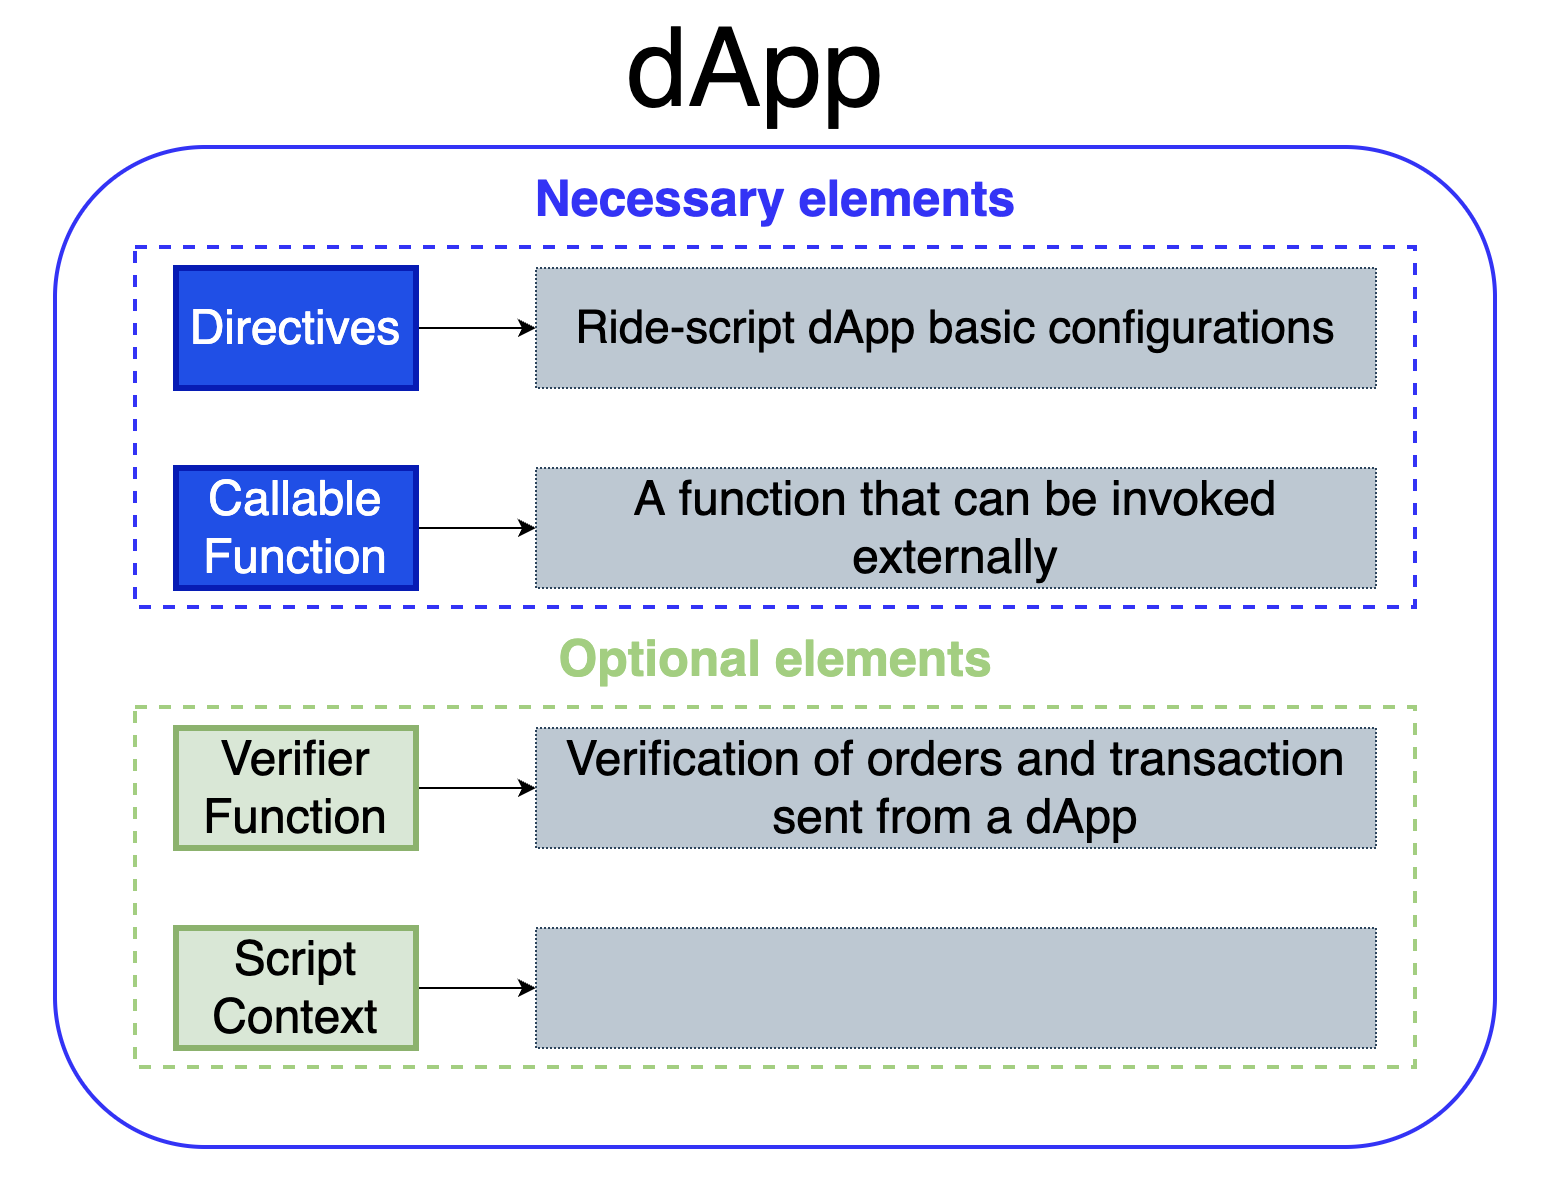
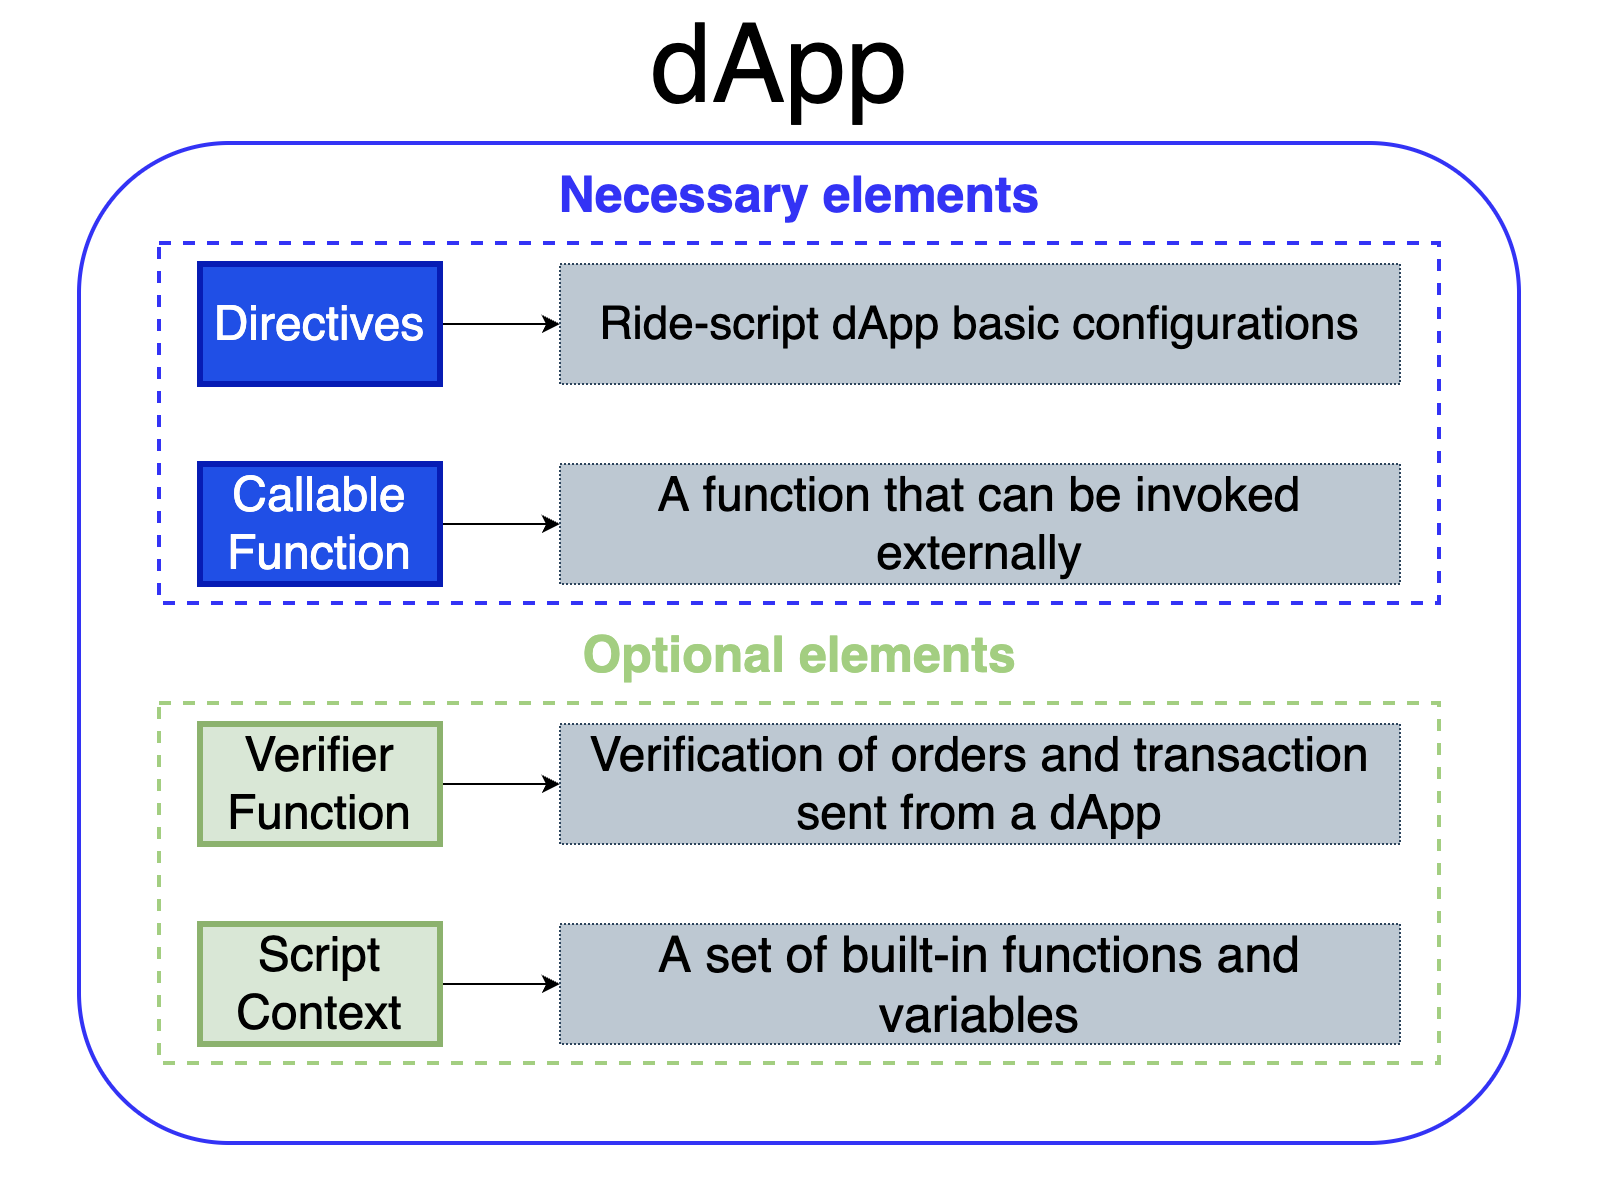
dApp

diff --git a/EN/How Waves Works/f. What is a dApp And dApp Creation/lesson.md b/EN/How Waves Works/f. What is a dApp And dApp Creation/lesson.md
@@ -118,8 +118,115 @@ There are 2 necessary elements:
 There are 2 optional elements:
 
 - **<ins>Verifier function</ins>**:<br>
+    By default, every dApp has a built-in verifier function that verifies if an order or a transaction were signed by this account.<br>
+    A verifier function cannot be invoked externally, i.e. another user cannot invoke it the same way as a callable function.<br>
+    Likewise, you may also add an additional verifier function.<br>
+    In the example below the verifier function allows transfer transactions and denies orders and other transaction types.<br>
+    The [match](https://docs.waves.tech/en/ride/operators/match-case) operator is used to specify verification rules depending on the order/transaction type.<br>
+
+    ```
+    @Verifier(tx)
+    func verify() = {
+        match tx {
+            case ttx:TransferTransaction => sigVerify(ttx.bodyBytes, ttx.proofs[0], ttx.senderPublicKey)
+            case _ => false
+        }
+    }
+    ```
 - **<ins>Script context</ins>**:<br>
+    A script context is a set of [built-in variables](https://docs.waves.tech/en/ride/variables/built-in-variables) and [built-in functions](https://docs.waves.tech/en/ride/functions/built-in-functions) available for usage within a dApp script.<br>
+    Waves already created necessary functions and variables that you may use within your dApp.<br>
+    If you declare a variable or a function within a certain callable function, they will be available only within that callable function.<br>
+    In case you would like to declare a global variable or a global function, make sure you write the code in the global scope.<br>
+
+    For example, the [assetInfo function](https://docs.waves.tech/en/ride/functions/built-in-functions/#account-data-storage-functions:~:text=assetInfo(ByteVector)%3A%20Asset,15) requests information about the token by its ID.
+    After this, [isDefined function](https://docs.waves.tech/en/ride/functions/built-in-functions/#string-functions:~:text=isDefined%28T%7CUnit,1) checks that a token with this ID exists on the blockchain.
+
+    ```
+    let asset = assetInfo(base58'8LQW8f7P5d5PZM7GtZEBgaqRPGSzS3DfPuiXrURJ4AJS')
+    asset.isDefined()
+    ```
 
 ### Limitations ###
 
+DApp has certain limitations with its size, complexity of the script, functions, and variables.<br>
+A dApp script cannot exceed 160 Kbytes.<br>
+[Complexity](https://docs.waves.tech/en/ride/base-concepts/complexity) of each callable function of dApp script cannot be more than 52,000.<br>
+See the full list of possible [limitations](https://docs.waves.tech/en/ride/limits/).
+
 ### Seting A DApp Script ###
+
+Keep in mind that the fee for the dApp Script installation is 0.01 WAVES.<br>
+There are 2 ways of making your account a dApp using:
+
+- [Waves IDE](https://waves-ide.com/):
+    1. Open the [Waves IDE](https://waves-ide.com/) with a signed in account;
+    2. Click "+" in the right corner of the script, select "dApp script":
+    ![](./images/dApp_setup_1.png)
+    3. Wrtie the Ride script code and click "Deploy":
+    ![](./images/dapp_setup_2.png)
+    4. Select the account and the tool that you would sign this [transaction](https://docs.waves.tech/en/blockchain/transaction-type/set-script-transaction) with.<br>
+    After this, publish the dApp script.<br>
+    ![](./images/dapp_setup_3.png)
+    5. As a result of a succesful operation, you will see a similar notification:<br>
+    ![](./images/dapp_setup_success.png)
+  
+- [Client libraries](#XII.Libraries):<br>
+    1. Prepare your [dApp script](https://docs.waves.tech/en/building-apps/smart-contracts/writing-dapps):<br>
+        ```
+        {-# STDLIB_VERSION 3 #-}
+        {-# SCRIPT_TYPE ACCOUNT #-}
+        {-# CONTENT_TYPE DAPP #-}
+        let answersCount = 20
+
+        let answers = 
+        ["It is certain.", 
+        "Yes - definitely.", 
+        "You may rely on it.", 
+        "As I see it, yes.", 
+        "My reply is no.", 
+        "My sources say no.",
+         "Very doubtful."]
+
+        func getAnswer (question,previousAnswer) = {
+            let hash = sha256(toBytes((question + previousAnswer)))
+            let index = toInt(hash)
+        answers[(index % answersCount)]
+            }
+
+
+        func getPreviousAnswer (address) = match getString(this, (address + "_a")) {
+            case a: String => 
+                a
+            case _ => 
+                address
+        }
+
+
+        @Callable(i)
+        func tellme (question) = {
+            let callerAddress = toBase58String(i.caller.bytes)
+            let answer = getAnswer(question, getPreviousAnswer(callerAddress))
+            WriteSet([DataEntry((callerAddress + "_q"), question), DataEntry((callerAddress + "_a"), answer)])
+            }
+        ```
+    2. Use a native to you programming language to send this transaction to the node.<br>
+        Read more about [creating and broadcasting transactions](https://docs.waves.tech/en/building-apps/how-to/basic/transaction).<br>
+        ```Java
+        // Necessary imports
+        import com.wavesplatform.transactions.common.Base64String;
+        import com.wavesplatform.transactions.SetScriptTransaction;
+
+        // Transforming the ride script to a base64 string
+        // Make sure to insert your ride script between the brackets below
+        Base64String script = node.compileScript("INSERT YOUR DAPP SCRIPT HERE").script(); 
+
+        // Creating the transaction of the installation of a dApp script and signing it with private key of "alice" 
+        SetScriptTransaction tx = SetScriptTransaction.builder(script).getSignedWith(alice);
+        
+        // Broadcasting the transaction to the node
+        node.waitForTransaction(node.broadcast(tx).id());
+        ```
+        Read more about [Operations with transactions - Set Account Script Transaction](#Operationswithtransactions-SetAccountScriptTransaction).
+     3. Once the transaction is sent to the node succesfully, the account will become a dApp.
+
